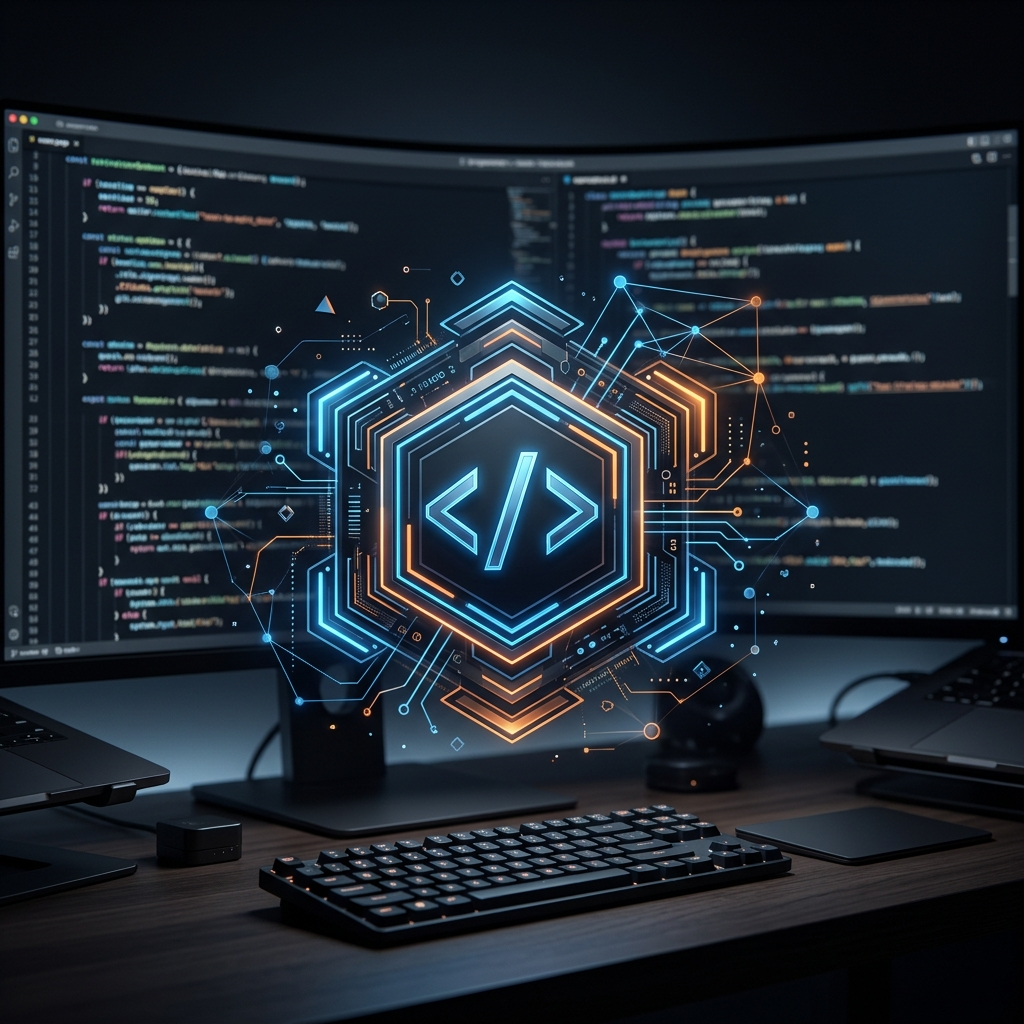
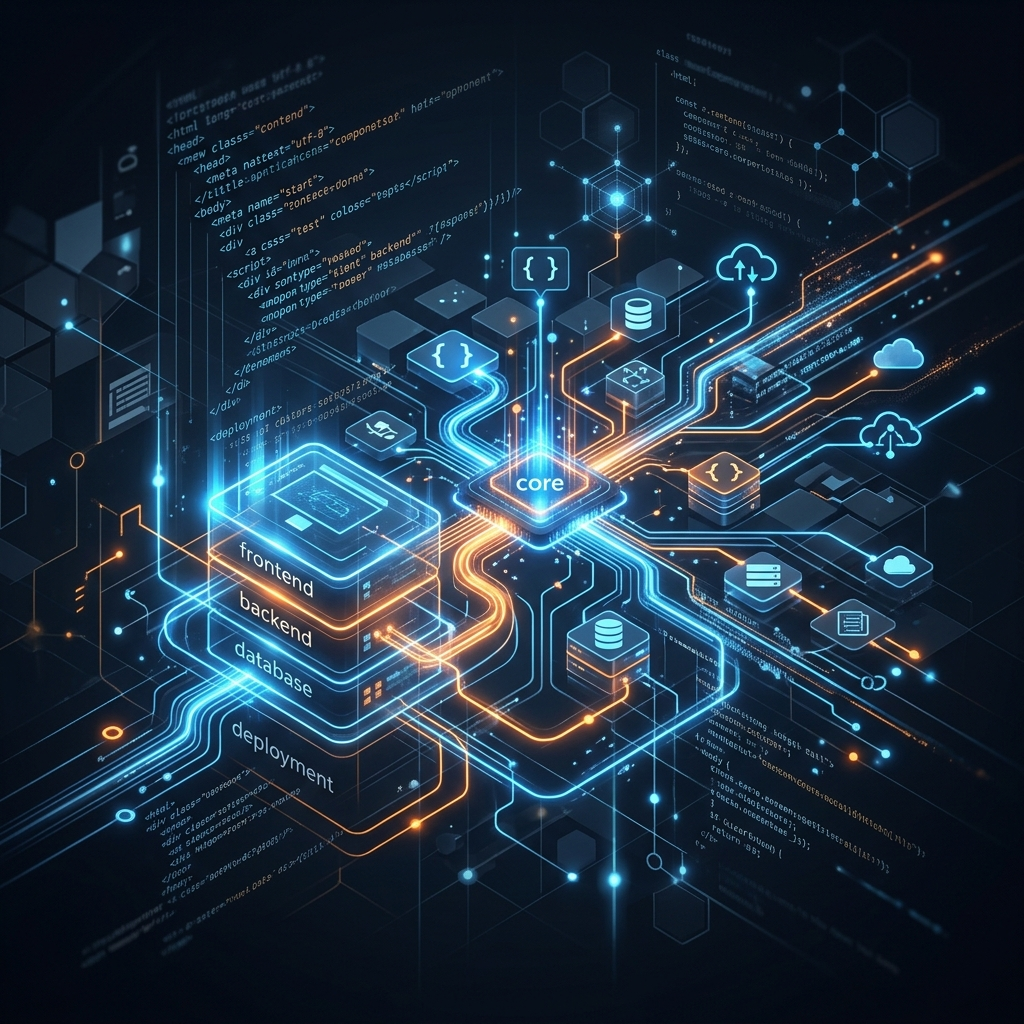
CONTENT: Fix SEO

diff --git a/src/app/layout.tsx b/src/app/layout.tsx
@@ -14,6 +14,7 @@ const geistMono = Geist_Mono({
 });
 
 export const metadata: Metadata = {
+	metadataBase: new URL("https://edwards-projects.vercel.app"),
 	title: "Edward Tanguay | Full-Stack Developer & Datapod Architect",
 	description: "Portfolio of Edward Tanguay, showcasing 20+ years of full-stack development expertise, the Datapod framework, and modern web applications.",
 	icons: {
@@ -22,6 +23,8 @@ export const metadata: Metadata = {
 	openGraph: {
 		title: "Edward Tanguay | Full-Stack Developer & Datapod Architect",
 		description: "Portfolio of Edward Tanguay, showcasing 20+ years of full-stack development expertise, the Datapod framework, and modern web applications.",
+		url: "https://edwards-projects.vercel.app",
+		siteName: "Edward's Projects",
 		images: [
 			{
 				url: "/og-image.png",
@@ -30,6 +33,14 @@ export const metadata: Metadata = {
 				alt: "Edward Tanguay Portfolio",
 			},
 		],
+		locale: "en_US",
+		type: "website",
+	},
+	twitter: {
+		card: "summary_large_image",
+		title: "Edward Tanguay | Full-Stack Developer & Datapod Architect",
+		description: "Portfolio of Edward Tanguay, showcasing 20+ years of full-stack development expertise, the Datapod framework, and modern web applications.",
+		images: ["/og-image.png"],
 	},
 };
 
